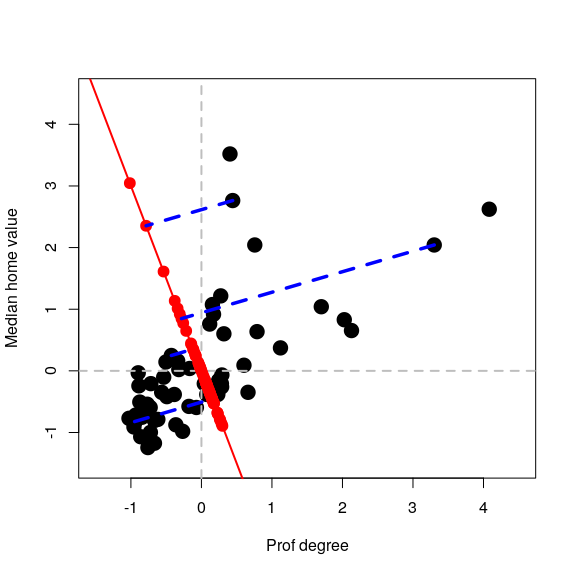
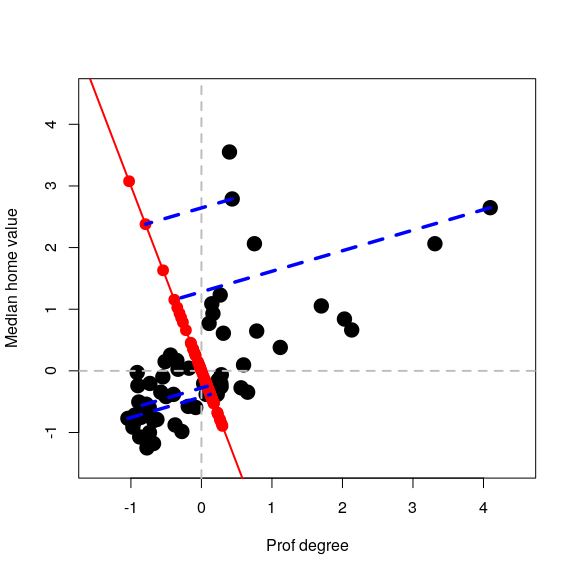
updated examples

diff --git a/Lecture22/README.md b/Lecture22/README.md
@@ -1,7 +1,7 @@
 STAT406 - Lecture 22 notes
 ================
 Matias Salibian-Barrera
-2018-11-15
+2018-11-23
 
 LICENSE
 -------
@@ -20,35 +20,35 @@ Although principal components can be easily computed with the spectral decomposi
 
 Instead of reviewing those (which can be easily done individually), in these notes I will reproduce two of the examples used in class (the simple 2-dimensional one used to motivate the topic, and the more interesting 256-dimensional one using the digits data). Finally, I will also show that principal components can be computed using an iterative algorithm (alternate regression), which may be faster than factorizing the covariance matrix, particularly when one is only interested in a few principal components and the dimension of the data is large.
 
-#### Example 1
+#### Simple 2-dimensional example
 
-Read the data for the simple illustration of PC's as best lower dimensional approximations
+We first read the data for the simple illustration of PC's as best lower dimensional approximations.
 
 ``` r
-x <- read.table("t8-5.dat", header = TRUE)
+x <- read.table("t8-5.dat", header = FALSE)
 ```
 
-We will only use two coordinates in order to be able to use plots
+Note that the data has 5 explanatory variables. Here we only use two of them in order to be able to visualize the analysis more easily:
 
 ``` r
 xx <- x[, c(2, 5)]
 colnames(xx) <- c("Prof degree", "Median home value")
 ```
 
-We now standardize the data
+As discussed in class, we standardize the data to avoid a large difference in scales "hijacking" the principal components:
 
 ``` r
 xx <- scale(xx, center = colMeans(xx), scale = TRUE)
 ```
 
-The following are auxiliary functions to compute Euclidean norms and squared Euclidean norms (faster than `R`'s `norm`):
+We now define two auxiliary functions to compute Euclidean norms and squared Euclidean norms (less general by probably faster than `R`'s `base::norm`):
 
 ``` r
-norm <- function(a) sqrt(norm2(a))
 norm2 <- function(a) sum(a^2)
+norm <- function(a) sqrt(norm2(a))
 ```
 
-A scatter plot of the data
+We start by looking at the data with a scatter plot:
 
 ``` r
 plot(xx, pch = 19, col = "black", cex = 2, xlim = c(-1.5, 4.5), ylim = c(-1.5, 
@@ -59,7 +59,7 @@ abline(v = 0, lwd = 2, col = "grey", lty = 2)
 
 ![](README_files/figure-markdown_github/data-1.png)
 
-We now compute projections along the direction of the vector (1, 0.05)':
+We now compute projections along the direction of the vector **v** ∝ (1, 0.05)<sup>⊤</sup>. Recall from your linear algebra courses that the orthogonal projection of a point **x** on the linear subspace spanned by **v** (where ∥**v**∥=1) is given by *π*<sub>**v**</sub>(**x**)=⟨**x**, **v**⟩ **v** which can also be written as *π*<sub>**v**</sub>(**x**)=(**v** **v**<sup>⊤</sup>)**x**. We first find the coordinates of the orthogonal projects of each observation along the subspace generated by **v** = (1, 0.05)<sup>⊤</sup> (these are the scalars ⟨**x**<sub>*i*</sub>, **v**⟩=**x**<sub>*i*</sub><sup>⊤</sup>**v** for each point **x**<sub>*i*</sub>:
 
 ``` r
 a <- c(1, 0.05)
@@ -67,21 +67,26 @@ a <- a/norm(a)
 # Find the projections (coordinates of the observations on this basis of
 # size 1)
 prs <- (xx %*% a)
-# Find the orthogonal projections of each observation on this subspace of
-# dimension 1
+```
+
+We now compute the projections *π*<sub>**v**</sub>(**x**<sub>*i*</sub>)=⟨**x**<sub>*i*</sub>, **v**⟩ **v**:
+
+``` r
 pr <- prs %*% a
+```
+
+and add them to the plot, with a few observations highlighted. The subspace is shown in red, and the orthogonal projections as solid red dots on that line:
+
+``` r
 # Plot the data
 plot(xx, pch = 19, col = "black", cex = 2, xlim = c(-1.5, 4.5), ylim = c(-1.5, 
     4.5))
 abline(h = 0, lwd = 2, col = "grey", lty = 2)
 abline(v = 0, lwd = 2, col = "grey", lty = 2)
-
 # Show the subspace on which we are projecting
 abline(0, a[2]/a[1], lwd = 2, col = "red")
-
 # Add the projections of the data on this subspace
 points(pr[, 1], pr[, 2], pch = 19, cex = 1.5, col = "red")
-
 # Highlight a few of them
 ind <- c(26, 25, 48, 36)
 pr2 <- pr[ind, ]
@@ -89,99 +94,96 @@ for (j in 1:length(ind)) lines(c(xx[ind[j], 1], pr2[j, 1]), c(xx[ind[j], 2],
     pr2[j, 2]), col = "blue", lwd = 3.5, lty = 2)
 ```
 
-![](README_files/figure-markdown_github/proj1-1.png)
+![](README_files/figure-markdown_github/proj1.2-1.png)
 
-We can repeat for a different direction, e.g. (-1, 3)':
+We repeat the above but projecting on a different direction **v** ∝ ( − 1, 3)<sup>⊤</sup>:
 
 ![](README_files/figure-markdown_github/proj2-1.png)
 
+We saw in class that the direction **v** that results in orthogonal projections closest to the original data (in the sense of minimizing the mean (or sum) of the residuals Euclidean norm squared) is given by the "first" eigenvector of the covariance matrix of the data. This is the first principal component. Refer to the class slides and discussion for more details and the definition and properties of the other principal components.
+
 #### Digits example
 
-Read the data
+In this example we use principal components to explore the zip code data. In particular, we focus on images from a single digit (we use 3, but the reader is strongly encouraged to re-do this analysis for other digits to explore whether similar conclusions hold for them). We load the training data from the `ElemStatLearn` package in R, and extract the images that correspond to the digit 3. For more information use `help(zip.train, package='ElemStatLearn')`.
 
 ``` r
-a <- read.table("train.3.txt", header = FALSE, sep = ",")
-# Verify that the data has been read correctly
-dim(a)
+data(zip.train, package = "ElemStatLearn")
+a <- zip.train[zip.train[, 1] == 3, -1]
 ```
 
-    ## [1] 658 256
-
-Define auxiliary functions for the squared Euclidean norm and the squared Euclidean distance
+Define an auxiliary function to compute the squared Euclidean distance between two vectors (recall that we have already defined the function `norm2` above):
 
 ``` r
-norm2 <- function(u) sum(u^2)
 dist <- function(a, b) norm2(a - b)
 ```
 
-Plot 9 random chosen images (hand-written 3's).
+To display the images we adapt the following function for plotting a matrix, which was originally available at <http://www.phaget4.org/R/image_matrix.html>:
 
 ``` r
-set.seed(31)
-sa <- sample(dim(a)[1], 9)
-par(mai = c(1, 1, 1, 1)/5, xaxs = "i", yaxs = "i")
-par(mfrow = c(3, 3))
-for (j in 1:9) {
-    myImagePlot(t(matrix(unlist(a[sa[j], ]), 16, 16)))
+myImagePlot <- function(x) {
+    min <- min(x)
+    max <- max(x)
+    ColorRamp <- grey(seq(1, 0, length = 256))
+    ColorLevels <- seq(min, max, length = length(ColorRamp))
+    # Reverse Y axis
+    reverse <- nrow(x):1
+    x <- x[reverse, ]
+    image(1:ncol(x), 1:nrow(x), t(x), col = ColorRamp, xlab = "", ylab = "", 
+        axes = FALSE, zlim = c(min, max))
 }
 ```
 
-![](README_files/figure-markdown_github/digitsplot-1.png)
+Using this function, we plot 9 randomly chosen images from our data set:
 
 ``` r
-# par(mfrow=c(1,1))
+set.seed(31)
+sa <- sample(nrow(a), 9)
+par(mai = c(1, 1, 1, 1)/5, xaxs = "i", yaxs = "i")
+par(mfrow = c(3, 3))
+for (j in 1:9) myImagePlot(t(matrix(unlist(a[sa[j], ]), 16, 16)))
 ```
+
+![](README_files/figure-markdown_github/digitsplot-1.png)
 
 <!-- # plot the average 3 -->
 <!-- myImagePlot(t(matrix(colMeans(a), 16, 16))) -->
 <!-- # Plot the first 3 on the data set -->
 <!-- myImagePlot(t(matrix(unlist(a[1,]), 16, 16))) -->
-Centre the observations, to compute the eigenvectors and eigenvalues of the covariance matrix more efficiently (without even computing the covariance matrix, in fact):
+Next, we centre the observations in order to compute the eigenvectors and eigenvalues of the covariance matrix more efficiently. In fact, note that we do not need to even compute the covariance matrix and can use the SVD of the centred data.
 
 ``` r
 ac <- scale(a, center = TRUE, scale = FALSE)
 si.svd <- svd(ac)
 ```
 
-Compute the proportion of the "total variance" that is accounted by the first 20 ppal components:
-
-``` r
-si.svd$d[1:20]^2/sum(si.svd$d^2)
-```
-
-    ##  [1] 0.126666119 0.087983622 0.078482987 0.073148294 0.056721679
-    ##  [6] 0.043155189 0.040322339 0.031437921 0.027870721 0.025920823
-    ## [11] 0.022477366 0.019793337 0.018897290 0.017074135 0.015246685
-    ## [16] 0.013193330 0.012713244 0.011240701 0.010793046 0.009830974
-
-``` r
-# cumulative proportions:
-cumsum(si.svd$d^2)[1:20]/sum(si.svd$d^2)
-```
-
-    ##  [1] 0.1266661 0.2146497 0.2931327 0.3662810 0.4230027 0.4661579 0.5064802
-    ##  [8] 0.5379182 0.5657889 0.5917097 0.6141871 0.6339804 0.6528777 0.6699518
-    ## [15] 0.6851985 0.6983918 0.7111051 0.7223458 0.7331388 0.7429698
-
-Compute the projections of the centered data on each of the 1st, 2nd and 3rd eigenvectors of the covariance matrix of the data in the matrix `a`:
+<!-- Using that the eigenvalues of the covariance matrix are the squares of the -->
+<!-- singular values of the $n \times p$ data matrix, we  -->
+<!-- compute the proportion of the "total variance" that is accounted by  -->
+<!-- the first 20 ppal components individually -->
+<!-- ```{r digits4} -->
+<!-- si.svd$d[1:20]^2 / sum(si.svd$d^2) -->
+<!-- ``` -->
+<!-- and cumulatively: -->
+<!-- ```{r digits4.1} -->
+<!-- cumsum(si.svd$d^2)[1:20] / sum(si.svd$d^2) -->
+<!-- ``` -->
+Using the relationship between the eigenvectors of the covariance matrix and the SVD of the *n* × *p* data matrix, we compute the coordinates of the centered data on their orthogonal projections along each of the first and 2nd and 3rd principal directions (eigenvectors of the covariance matrix). Recall that the data are stored as rows of the matrix `a`:
 
 ``` r
 v1 <- as.vector(ac %*% si.svd$v[, 1])
 v2 <- as.vector(ac %*% si.svd$v[, 2])
-v3 <- as.vector(ac %*% si.svd$v[, 3])
 ```
 
-Find 5 quantiles of each of these coordinates
+As discussed in class, we identify 5 quantiles of each of these coordinates to use as our 2-dimensional grid:
 
 ``` r
 qv1 <- quantile(v1, c(0.05, 0.25, 0.5, 0.75, 0.95))
 qv2 <- quantile(v2, c(0.05, 0.25, 0.5, 0.75, 0.95))
 ```
 
-Plot the 2-dimensional projections plus the 5x5 grid on top
+We can visualize the grid over the scatter plot of all the 2-dimensional projections of the data:
 
 ``` r
-# Create a grid
 qv <- expand.grid(qv1, qv2)
 plot(v1, v2, pch = 19, cex = 1, col = "grey")
 points(qv[, 1], qv[, 2], pch = 19, cex = 1.5, col = "red")
@@ -189,41 +191,37 @@ points(qv[, 1], qv[, 2], pch = 19, cex = 1.5, col = "red")
 
 ![](README_files/figure-markdown_github/digits.p3-1.png)
 
-Now find the (projected) points closest to each of the 5x5=25 points in the grid
+We now find the projected points closest to each of the 5 x 5 = 25 points in the grid
 
 ``` r
 vs <- cbind(v1, v2)
 cvs <- array(0, dim = dim(qv))
-for (j in 1:dim(qv)[1]) {
-    cvs[j, ] <- vs[which.min(apply(vs, 1, dist, b = qv[j, ])), ]
-}
+for (j in 1:dim(qv)[1]) cvs[j, ] <- vs[which.min(apply(vs, 1, dist, b = qv[j, 
+    ])), ]
 ```
 
-Identify these points in blue:
+and identify these points in blue on our plot:
 
 ``` r
 plot(v1, v2, pch = 19, cex = 1, col = "grey")
 points(qv[, 1], qv[, 2], pch = 19, cex = 1.5, col = "red")
-for (j in 1:dim(qv)[1]) {
-    points(cvs[j, 1], cvs[j, 2], pch = 19, col = "blue")
-}
+for (j in 1:dim(qv)[1]) points(cvs[j, 1], cvs[j, 2], pch = 19, col = "blue")
 ```
 
 ![](README_files/figure-markdown_github/digits.p5-1.png)
 
-Find the approximations for these closest (blue) points (these will be points in a 2-dimensional subspace within R^256:
+Using these "blue" coordinates, we construct the corresponding points in the 256-dimensional space:
 
 ``` r
 app <- t(si.svd$v[, 1:2] %*% t(cvs))
 ```
 
-Now find the images closest to these points
+and identify the images in our data set that are closest to these points
 
 ``` r
 repre <- matrix(0, dim(qv)[1], dim(app)[2])
-for (j in 1:dim(qv)[1]) {
-    repre[j, ] <- ac[which.min(apply(ac, 1, dist, b = app[j, ])), ]
-}
+for (j in 1:dim(qv)[1]) repre[j, ] <- ac[which.min(apply(ac, 1, dist, b = app[j, 
+    ])), ]
 ```
 
 These are the actual images that are closest to the points in the array `app` above. Now add the column means and display these 25 images according to the points they represent in the red grid:
@@ -242,6 +240,8 @@ for (j in 1:dim(repre)[1]) {
 ``` r
 # par(mfrow=c(1,1))
 ```
+
+Note how these images change when we "traverse" the 256-dimensional space along each of these 2 principal directions.
 
 <!-- Repeat with 3 ppal components now!: -->
 <!-- ```{r digits.3pca} -->
@@ -322,7 +322,7 @@ system.time(tmp <- alter.pca.k1(x))
 ```
 
     ##    user  system elapsed 
-    ##   0.681   1.088   0.334
+    ##   0.709   1.125   0.294
 
 ``` r
 a1 <- tmp$a
@@ -330,7 +330,7 @@ system.time(e1 <- svd(cov(x))$u[, 1])
 ```
 
     ##    user  system elapsed 
-    ##   3.214   1.641   1.638
+    ##   2.835   1.519   1.460
 
 ``` r
 a1 <- a1 * sign(e1[1] * a1[1])
